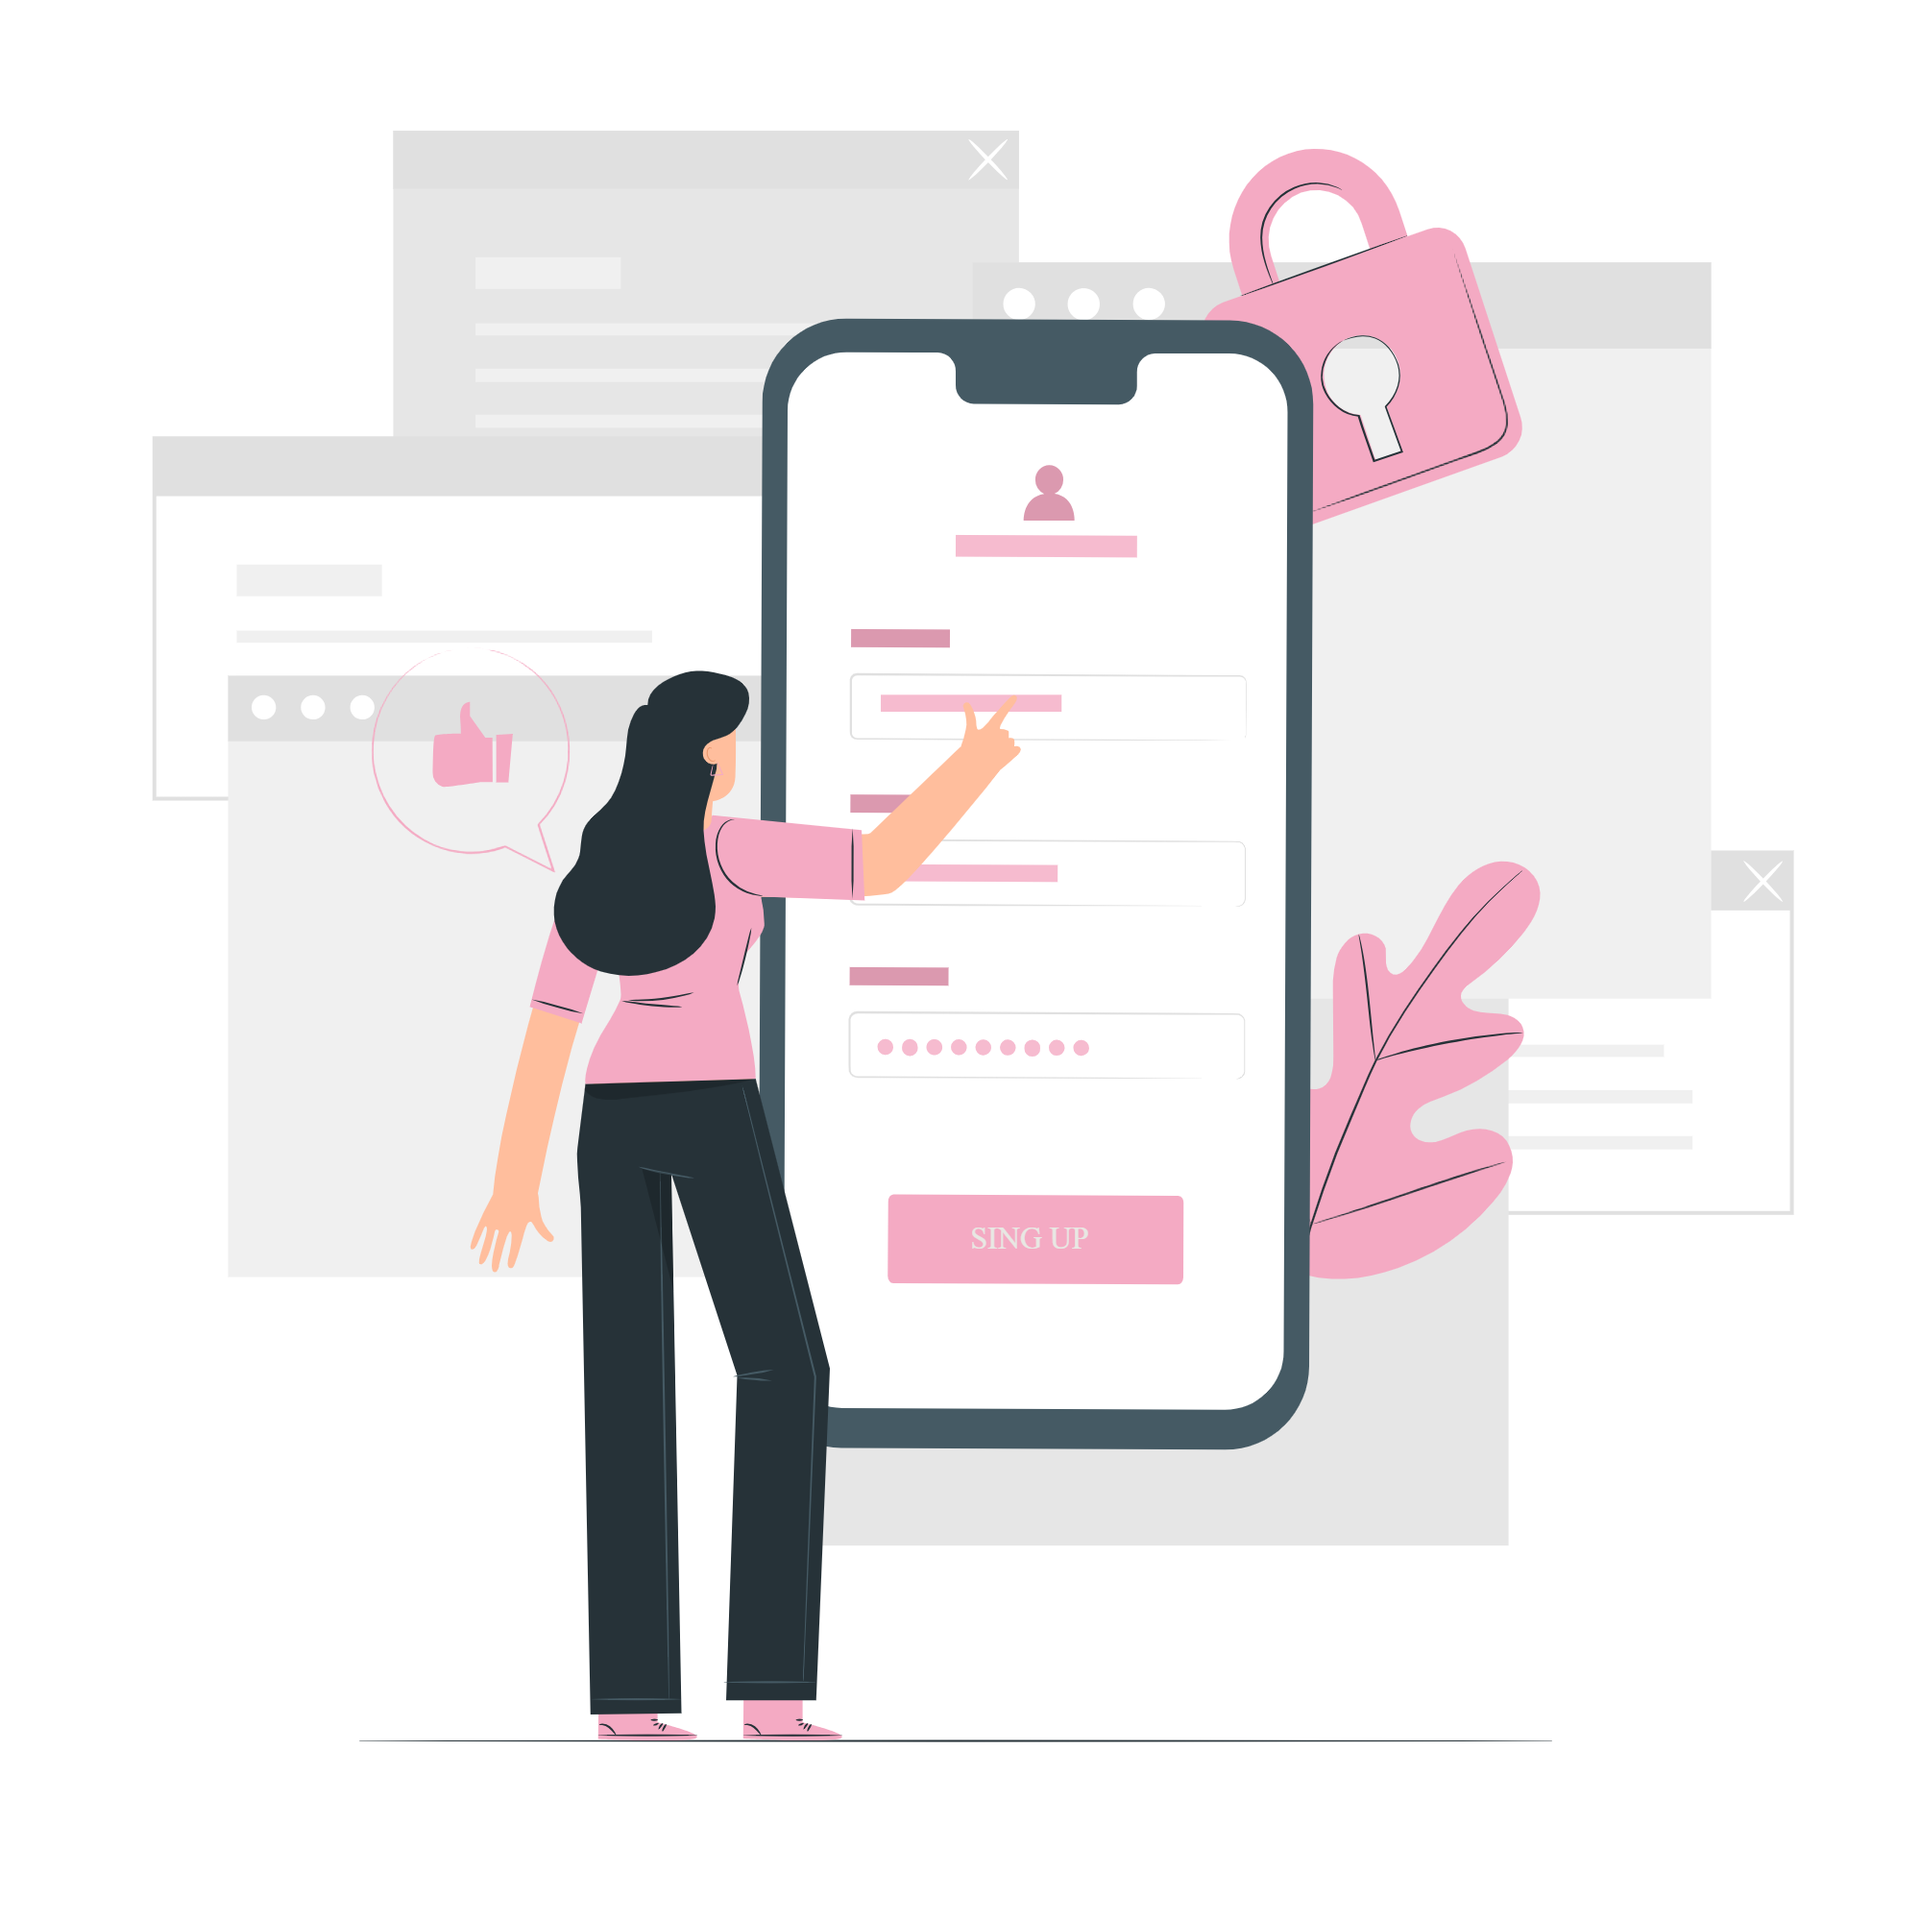
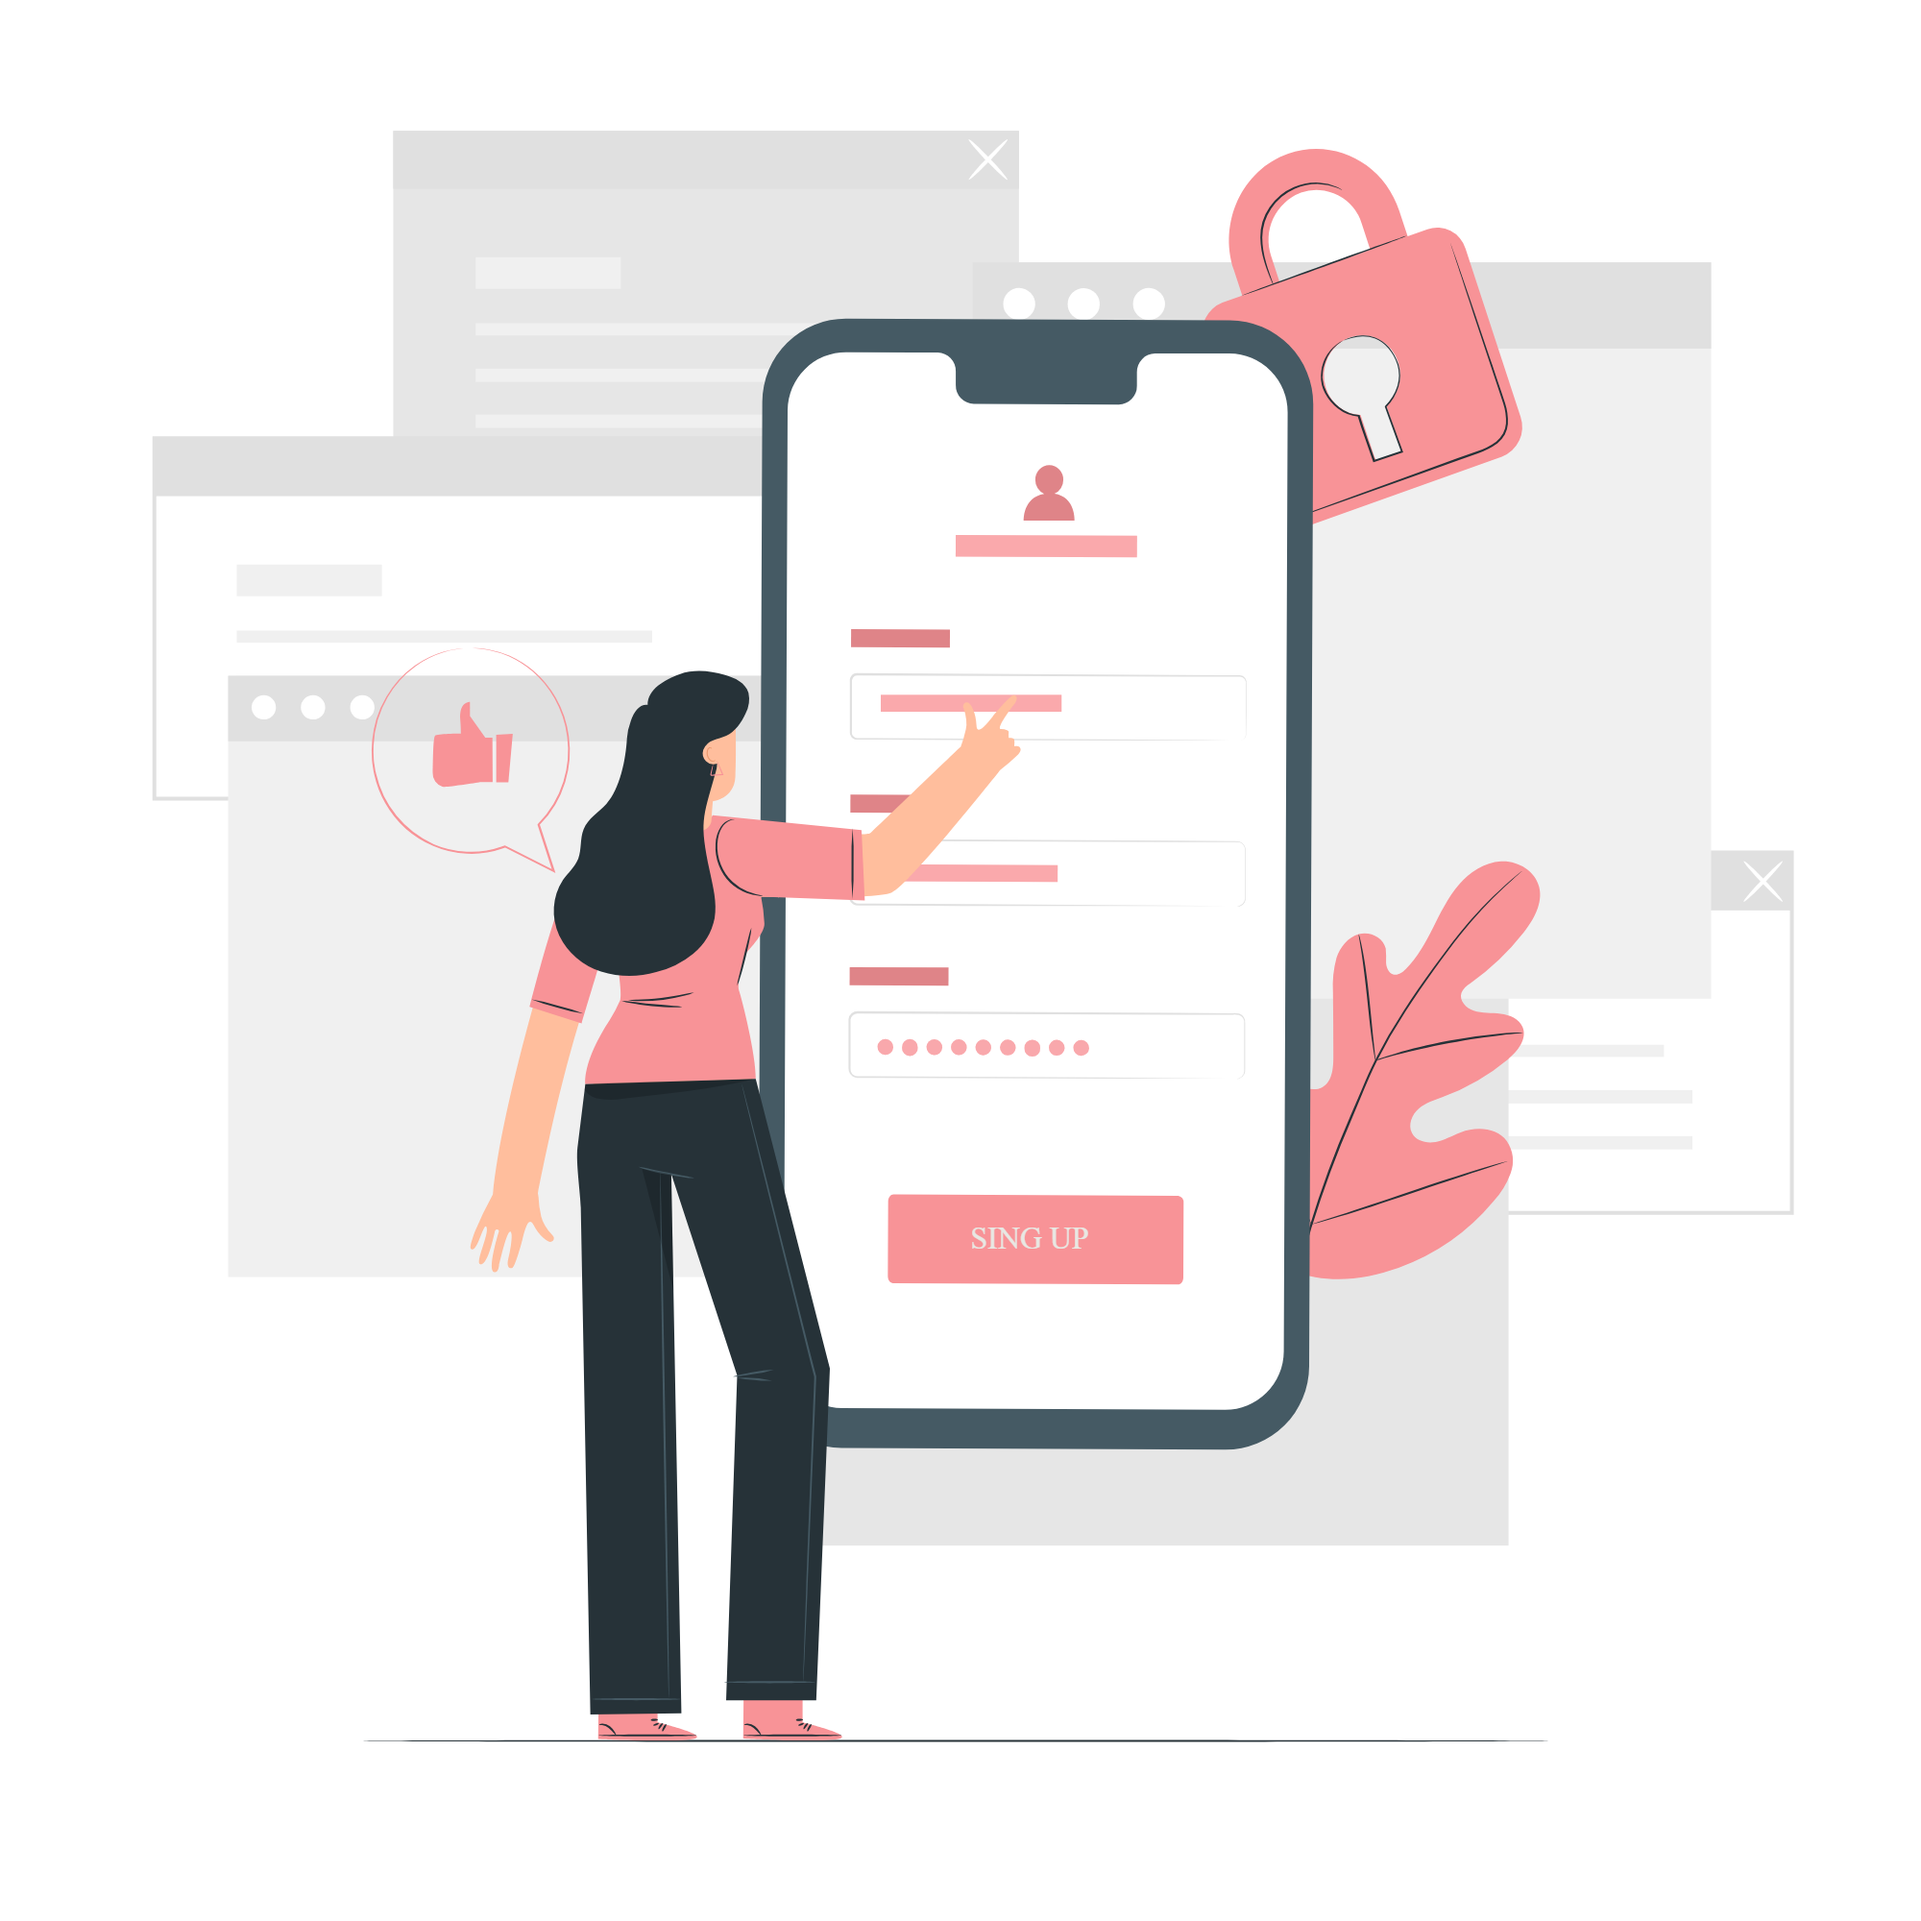
responsividade finalizada e imagens trocadas

diff --git a/public/css/mod_ed_user.css b/public/css/mod_ed_user.css
@@ -297,7 +297,7 @@ button:hover {
 }
 
 .dados-edit button{
-    background-color:  #DD0B63;
+    background-color:  #E85D97;
     font-size: 1.9vw;
     padding: 0.6vw;
     font-family: 'Manjari', sans-serif;
